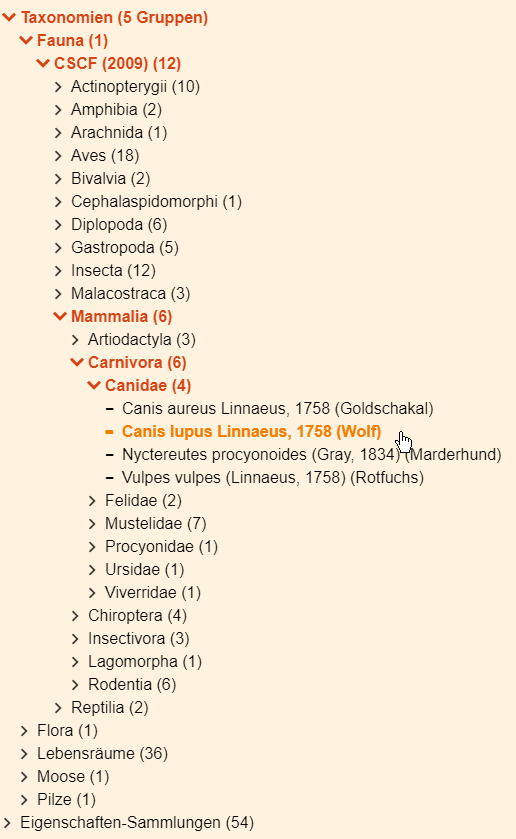
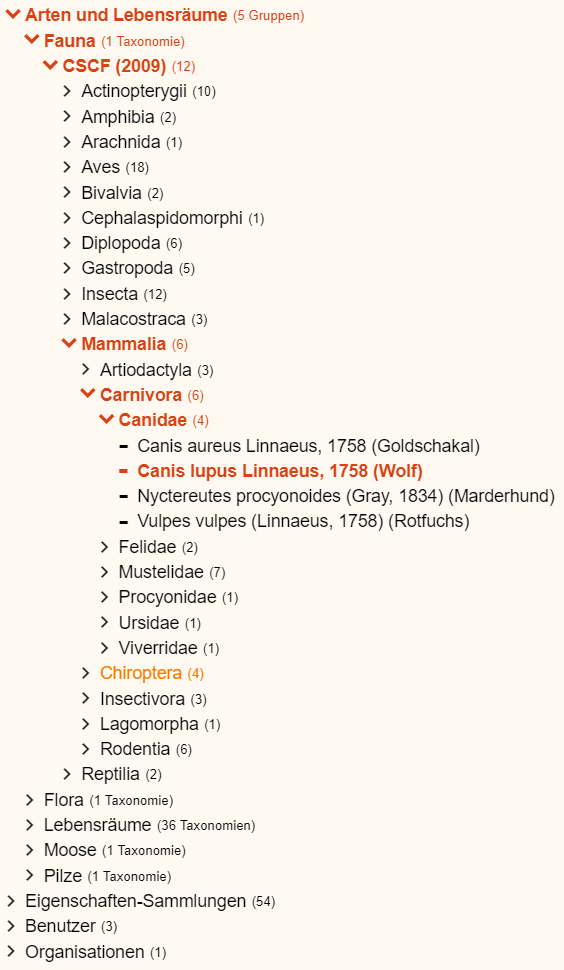
update readme

Changed region(s): [[0.0, 0.0, 0.9922, 0.9917]]

diff --git a/readme.md b/readme.md
@@ -54,7 +54,7 @@
   - API-Server mit einer Zeile bauen und konfigurieren. Das sind _tausende_ weniger als bisher!
   - Weniger Code = weniger Fehler<br/>
   - Daten-Logik und Rechte-Verwaltung obliegen der Datenbank - wie es sein sollte<br/>
-  - GraphQL ist die kommende API-Technologie. Verglichen mit REST ist GraphQL einfach zu verstehen, extrem leistungsfähig und flexibel. Somit steht ein aussergewöhnlich benutzerfreundlicher API-Server zur Verfügung, mit dem jedermann/-frau ganz nach ihren Bedürfnissen alle öffentlichen Daten (ausser Benutzer-Daten) aus arteigenschaften.ch abfragen und - im Rahmen der Benutzer-Rechte - bearbeiten kann
+  - GraphQL ist die kommende API-Technologie. Verglichen mit REST ist GraphQL einfach zu verstehen, extrem leistungsfähig und flexibel. Somit steht ein aussergewöhnlich benutzerfreundlicher API-Server zur Verfügung, mit dem jedermann/-frau ganz nach ihren Bedürfnissen alle öffentlichen Daten aus arteigenschaften.ch abfragen und - im Rahmen ihrer Benutzer-Rechte - bearbeiten kann
 - [hapi.js](http://hapijs.com) liefert (zumindest vorläufig noch) die Schnittstellen für [Artenlistentool](http://www.aln.zh.ch/internet/baudirektion/aln/de/naturschutz/naturschutzdaten/tools/artenlistentool.html#a-content), [EVAB](http://www.aln.zh.ch/internet/baudirektion/aln/de/naturschutz/naturschutzdaten/tools/evab.html#a-content) und [apflora.ch](https://github.com/FNSKtZH/apflora)
 - [Apollo](https://www.apollodata.com). "React für Anwendungsdaten": Komponenten definieren, welche Daten sie brauchen. GraphQL und Apollo kümmern sich um die Bereitstellung
 - Software-Abhängigkeiten werden mit [npm](https://www.npmjs.com) verwaltet
@@ -74,7 +74,9 @@
 
 - [x] Datenstruktur:<br/>![Datenstruktur](/etc/structure_relational.png?raw=true "Datenstruktur")
 - [x] [Projekt](https://github.com/barbalex/ae_import), um die Daten aus der bisherigen CouchDB in die neue PostgreSQL zu importieren<br/>![Import](/etc/import.png?raw=true "Import")
-- [x] Anwendungs-API-Server ([PostGraphQL](https://github.com/postgraphql/postgraphql))<br/>![API-Server](/etc/postgraphql.png?raw=true "API-Server")
+- [x] Anwendungs-API-Server ([PostGraphQL](https://github.com/postgraphql/postgraphql))<br/>
+  ![API-Server](/etc/postgraphql.png?raw=true "API-Server")
+  Ja, man sieht in diesem Bild ein Passwort :-( Aber es ist veraltet :-)
 - [x] [API-Server für abhängige Anwendungen, welche nicht über GraphQL zugreifen](https://github.com/barbalex/ae_api) (braucht noch etwas Liebe)
 
 Die neue Anwendung ist im Aufbau. Zieldatum für die Implementierung: Frühling 2018. Aktueller Stand:
@@ -84,7 +86,7 @@ Die neue Anwendung ist im Aufbau. Zieldatum für die Implementierung: Frühling 
     - neu kann die Grenze zwischen Strukturbaum und Objekt stufenlos verschoben werden
     ![Layout & Navigation](/etc/layout.png?raw=true "Layout & Navigation")
   - [x] Struktur- und Navigationsbaum
-    - neu inklusive Gruppen, Taxonomien und Eigenschaftensammlungen
+    - neu inklusive Gruppen, Taxonomien, Eigenschaftensammlungen, Benutzer und Organisationen
     ![Strukturbaum](/etc/strukturbaum.png?raw=true "Strukturbaum")
   - [x] Suche:
     - neu nach allen Gruppen und Taxonomien gleichzeitig
@@ -96,6 +98,18 @@ Die neue Anwendung ist im Aufbau. Zieldatum für die Implementierung: Frühling 
     - [x] inklusive Synonymen<br/>
     - [x] inklusive Eigenschaften und Beziehungen von Synonymen<br/>
       ![Synonym](/etc/synonym.png?raw=true "Synonym")
+  - [x] Neu: Alle Hierarchiestufen des Taxonomie-Baums anzeigen:<br/>
+    Gruppe:<br/>
+    ![Strukturbaum: Gruppe](/etc/gruppe.png?raw=true "Strukturbaum: Gruppe")<br/>
+    Taxonomie:<br/>
+    ![Strukturbaum: Taxonomie](/etc/taxonomie.png?raw=true "Strukturbaum: Taxonomie")<br/>
+    Z.B. Klasse:<br/>
+    ![Strukturbaum: Klasse](/etc/klasse.png?raw=true "Strukturbaum: Klasse")<br/>
+    Z.B. Ordnung:<br/>
+    ![Strukturbaum: Ordnung](/etc/ordnung.png?raw=true "Strukturbaum: Ordnung")<br/>
+    Z.B. Familie:<br/>
+    ![Strukturbaum: Familie](/etc/familie.png?raw=true "Strukturbaum: Familie")<br/>
+    Diese Hierarchiestufen haben ihre eigene id und können gleich verwendet werden, wie Arten bzw. Lebensräume.
   - [x] Neu: Eigenschaften-Sammlungen anzeigen:<br/>
     Die Liste aller:<br/>
     ![Eigenschaften-Sammlungen: Liste](/etc/pcs_list.png?raw=true "Eigenschaften-Sammlungen: Liste")<br/>
